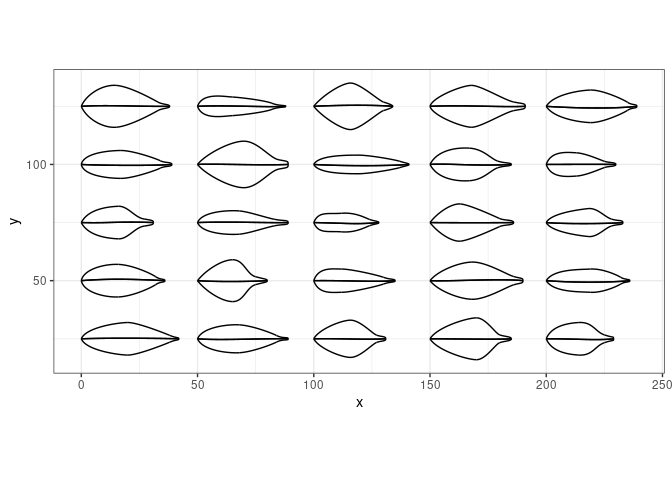
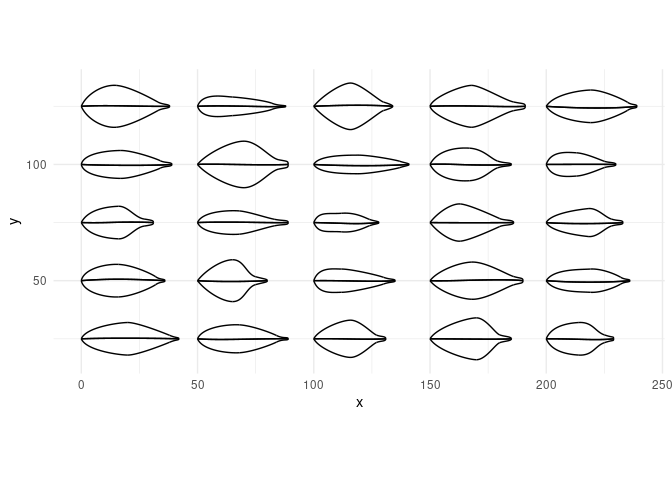
use theme_minimal()

Changed region(s): [[0.0625, 0.75, 1.0, 0.7812], [0.0625, 0.3125, 0.0938, 0.375], [0.0625, 0.5625, 0.0938, 0.5938]]

diff --git a/README.md b/README.md
@@ -129,7 +129,7 @@ ggplot(dfb) +
   ggforce::geom_bezier(aes(x = x, y = y, group = i)) +
   # geom_point(data = l_points %>% bind_rows(), aes(x = x, y = y), color = "red") +
   coord_equal() +
-  theme_bw()
+  theme_minimal()
 ```
 
 <img src="man/figures/README-plotlotsofbenjamini-1.png" width="100%" />
